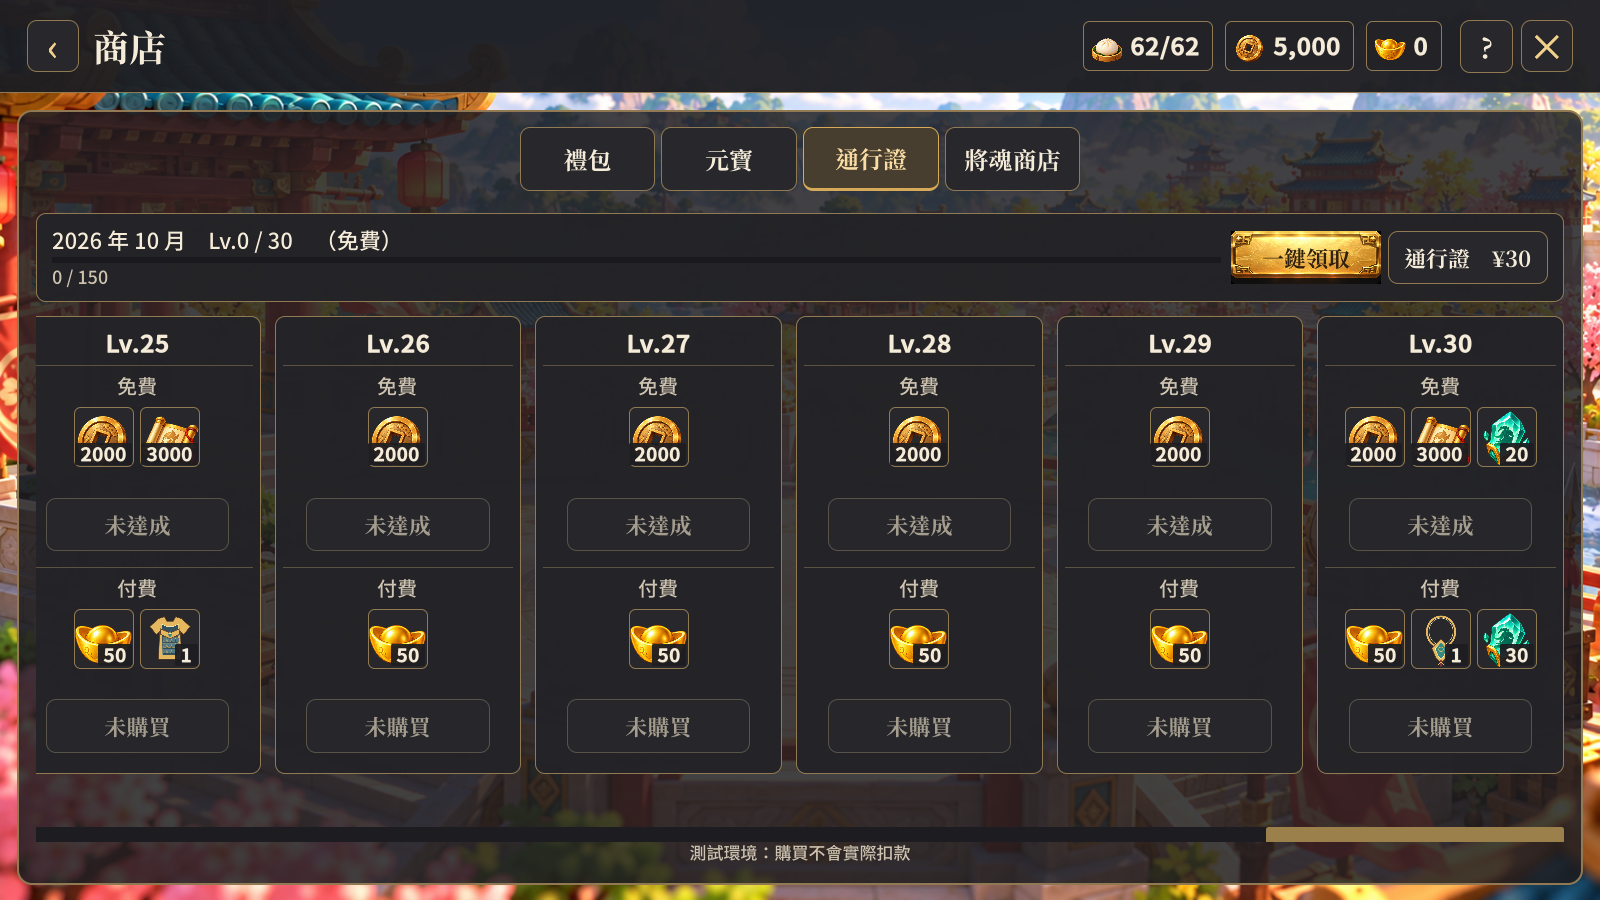
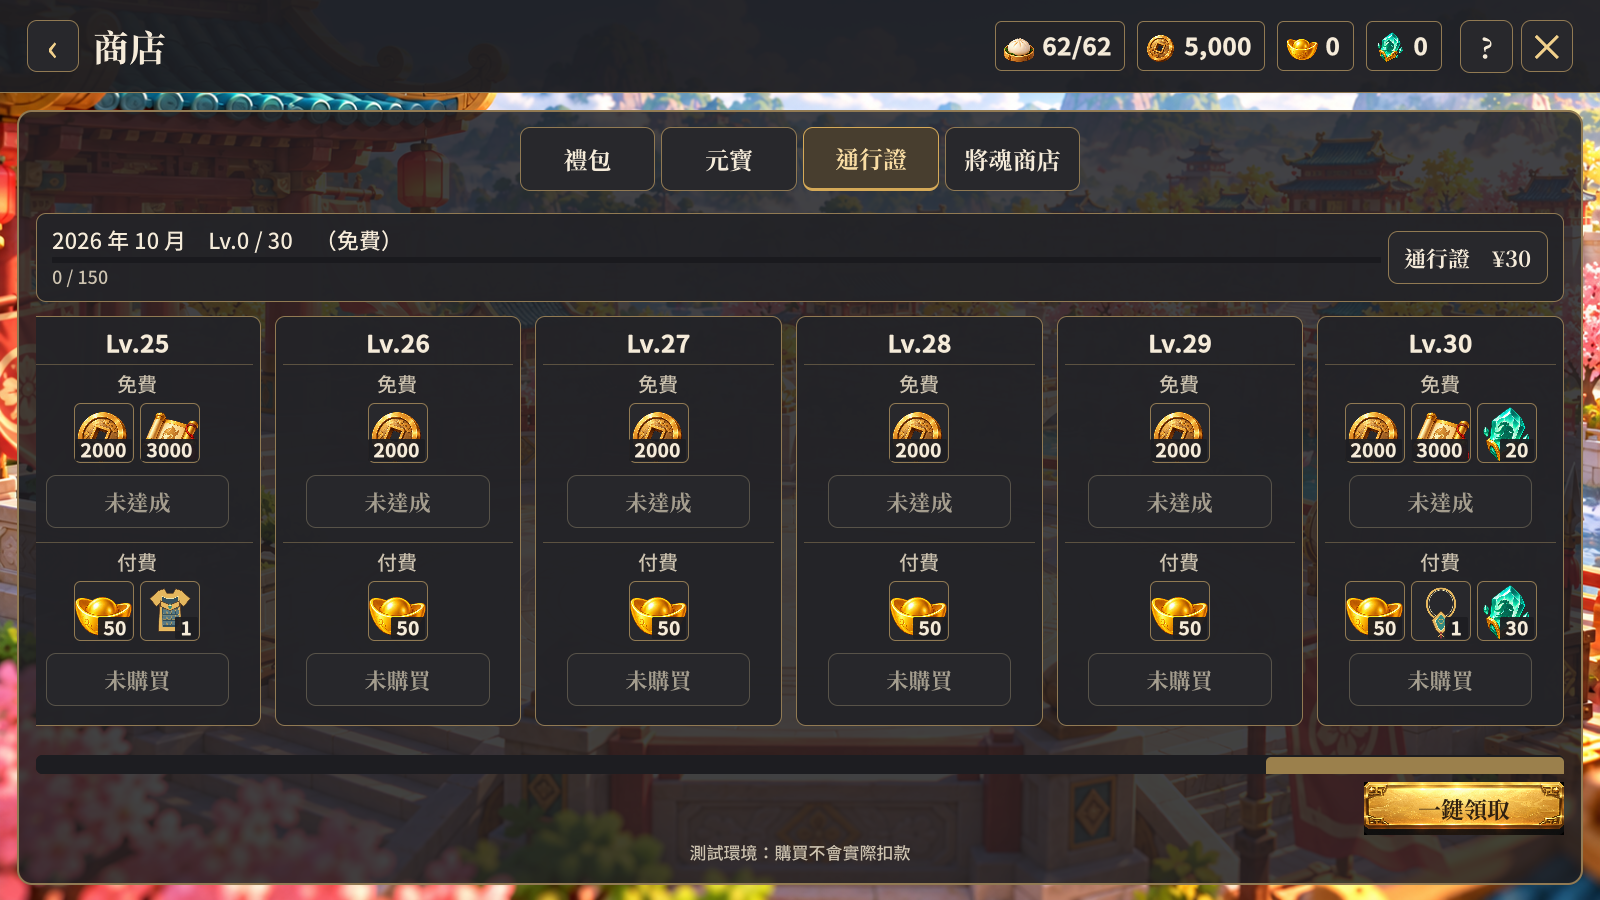
修復商店橫向捲動操作，調整將魂圖示與裝備效果詳情

diff --git a/client/Assets/Scripts/Pages/ShopPage.cs b/client/Assets/Scripts/Pages/ShopPage.cs
@@ -1,5 +1,6 @@
 #nullable enable
 using System.Linq;
+using System.Collections.Generic;
 using SanGuo.Core;
 using SanGuo.Core.Meta;
 using UnityEngine.UIElements;
@@ -191,7 +192,6 @@ namespace SanGuo.Client
             info.Add(UiKit.Text(level >= BattlePass.MaxLevel ? "已滿級" : $"{points % BattlePass.PointsPerLevel} / {BattlePass.PointsPerLevel}", "line-sub"));
             info.tooltip = "消耗 1 點體力獲得 1 點通行證經驗";
             top.Add(info);
-            top.Add(UiKit.Btn("一鍵領取", () => _ = Act(() => GameSession.Backend.ClaimPassAll(), "已領取"), primary: true).WithClass("btn-sm"));
             if (tier == "")
             {
                 foreach (var id in new[] { Shop.PassBasic })
@@ -208,6 +208,8 @@ namespace SanGuo.Client
             var scroll = new ScrollView(ScrollViewMode.Horizontal);
             scroll.AddToClassList("grow");
             scroll.AddToClassList("shop-pass-scroll");
+            scroll.verticalScrollerVisibility = ScrollerVisibility.Hidden;
+            EnableHorizontalScroll(scroll);
             for (int lv = 1; lv <= BattlePass.MaxLevel; lv++)
             {
                 int l = lv;
@@ -228,6 +230,9 @@ namespace SanGuo.Client
                 scroll.Add(row);
             }
             body.Add(scroll);
+            var footer = new VisualElement().WithClass("shop-pass-footer");
+            footer.Add(UiKit.Btn("一鍵領取", () => _ = Act(() => GameSession.Backend.ClaimPassAll(), "已領取"), primary: true).WithClass("shop-pass-claim-all"));
+            body.Add(footer);
             body.Add(UiKit.Text("測試環境：購買不會實際扣款", "foot-note"));
         }
 
@@ -263,11 +268,12 @@ namespace SanGuo.Client
             var v = GameSession.View;
             long now = v.Now;
             int souls = v.Material(HeroGrowth.Soul);
-            body.Add(UiKit.Text($"將魂 {souls}", "line-title shop-soul-note"));
 
             var scroll = new ScrollView(ScrollViewMode.Horizontal);
             scroll.AddToClassList("grow");
             scroll.AddToClassList("shop-exchange-scroll");
+            scroll.verticalScrollerVisibility = ScrollerVisibility.Hidden;
+            EnableHorizontalScroll(scroll);
             VisualElement? column = null;
             int visible = 0;
             foreach (var item in SoulShop.Items())
@@ -285,10 +291,11 @@ namespace SanGuo.Client
                 row.AddToClassList("shop-exchange-card");
                 var head = new VisualElement();
                 head.AddToClassList("shop-exchange-head");
-                head.Add(UiKit.Text(it.Name, "card-row-name"));
+                string name = it.Kind == SoulItemKind.HeroShard ? (HeroRoster.Find(it.HeroId)?.Name ?? it.HeroId) + " 信物" : it.Name;
+                head.Add(UiKit.Text(name, "card-row-name"));
                 if (it.Kind == SoulItemKind.HeroShard)
                 {
-                    var portrait = Item("item_shard", it.Name, "武將專屬信物，用於突破。", 1);
+                    var portrait = Item("item_shard", name, "武將專屬信物，用於突破。", 1);
                     var face = HeroArt.Face(it.HeroId);
                     if (face != null) portrait.style.backgroundImage = new StyleBackground(face);
                     head.Add(portrait.WithClass("shop-exchange-icon"));
@@ -300,7 +307,12 @@ namespace SanGuo.Client
                         it.Kind == SoulItemKind.Gold ? "用於武將養成與裝備強化。" : "用於提升武將等級。", it.Amount).WithClass("shop-exchange-icon"));
                 var purchase = soldOut
                     ? UiKit.DoneBtn("本月已兌完").WithClass("btn-sm")
-                    : UiKit.Btn($"{it.Cost} 將魂", () => _ = Act(() => GameSession.Backend.BuySoulItem(it.Id), "兌換成功"), primary: souls >= it.Cost).WithClass("btn-sm");
+                    : UiKit.Btn("", () => _ = Act(() => GameSession.Backend.BuySoulItem(it.Id), "兌換成功"), primary: souls >= it.Cost).WithClass("btn-sm shop-soul-cost");
+                if (!soldOut)
+                {
+                    purchase.Add(UiKit.ItemTile("item_shard").WithClass("shop-soul-cost-icon"));
+                    purchase.Add(UiKit.Text(it.Cost.ToString(), "shop-soul-cost-value"));
+                }
                 purchase.SetEnabled(!soldOut && souls >= it.Cost);
                 purchase.tooltip = souls >= it.Cost ? "兌換此項目" : $"將魂不足，需要 {it.Cost} 將魂";
                 head.Add(purchase);
@@ -335,7 +347,8 @@ namespace SanGuo.Client
         {
             if (Equipment.TryParseKey(key, out var slot, out int tier))
             {
-                var tile = Item("item_chest", Equipment.Name(slot, tier), $"{Equipment.SlotName(slot)}，可在裝備頁配戴。", amount);
+                var tile = Item("item_chest", Equipment.Name(slot, tier), EquipmentEffect(slot, tier), amount);
+                tile.AddToClassList("shop-equipment-item");
                 string icon = slot == EquipSlot.Weapon ? "weapon_warrior" : slot == EquipSlot.Armor ? "armor" : "accessory";
                 var tex = UnityEngine.Resources.Load<UnityEngine.Texture2D>("EquipmentArt/" + icon);
                 if (tex != null) tile.style.backgroundImage = new StyleBackground(tex);
@@ -343,6 +356,73 @@ namespace SanGuo.Client
             }
             return Item(key == HeroGrowth.HeroExp ? "item_expbook" : "item_shard", UiText.MaterialName(key),
                 key == HeroGrowth.HeroExp ? "用於提升武將等級。" : "用於將魂商店兌換商品。", amount);
+        }
+
+        private static string EquipmentEffect(EquipSlot slot, int tier)
+        {
+            var equipment = new Dictionary<string, int> { [slot.ToString()] = tier };
+            var physical = Equipment.Mods(Role.Warrior, equipment);
+            var other = Equipment.Mods(Role.Tank, equipment);
+            int percent = Equipment.PercentOf(tier);
+            string effect;
+            if (slot == EquipSlot.Weapon)
+                effect = $"坦克／戰士／射手：攻擊 +{percent}%\n法師／謀士／醫者：智力 +{percent}%\n自選匣配戴時依武將職業轉為對應武器。";
+            else if (slot == EquipSlot.Armor)
+                effect = $"生命 +{percent}%\n防禦 +{percent}%";
+            else
+                effect = $"戰士／射手：爆擊率 +{physical.Crit} 個百分點\n坦克／法師／謀士／醫者：閃避率 +{other.Dodge} 個百分點";
+            return $"{Equipment.TierLabel(tier)} · {Equipment.SlotName(slot)}\n{effect}\n可在裝備頁配戴；同部位替換，不與原裝備疊加。";
+        }
+
+        private static void EnableHorizontalScroll(ScrollView scroll)
+        {
+            var viewport = scroll.contentViewport;
+            int pointer = -1;
+            float startX = 0;
+            float startOffset = 0;
+            bool dragging = false;
+            bool suppressClick = false;
+            viewport.RegisterCallback<WheelEvent>(evt =>
+            {
+                if (scroll.horizontalScroller.highValue <= 0) return;
+                float delta = UnityEngine.Mathf.Abs(evt.delta.x) > UnityEngine.Mathf.Abs(evt.delta.y) ? evt.delta.x : evt.delta.y;
+                scroll.scrollOffset = new UnityEngine.Vector2(UnityEngine.Mathf.Clamp(scroll.scrollOffset.x + delta * 48, 0, scroll.horizontalScroller.highValue), 0);
+                evt.StopImmediatePropagation();
+            }, TrickleDown.TrickleDown);
+            viewport.RegisterCallback<PointerDownEvent>(evt =>
+            {
+                suppressClick = false;
+                if (evt.button != 0 || evt.pointerType != PointerType.mouse || pointer >= 0 || scroll.horizontalScroller.highValue <= 0) return;
+                for (var target = evt.target as VisualElement; target != null && target != viewport; target = target.parent)
+                    if (target is Button) return;
+                pointer = evt.pointerId;
+                startX = evt.position.x;
+                startOffset = scroll.scrollOffset.x;
+                dragging = false;
+            }, TrickleDown.TrickleDown);
+            viewport.RegisterCallback<PointerMoveEvent>(evt =>
+            {
+                if (evt.pointerId != pointer) return;
+                if (!dragging && UnityEngine.Mathf.Abs(startX - evt.position.x) < 6) return;
+                if (!dragging) { dragging = true; suppressClick = true; viewport.CapturePointer(pointer); }
+                scroll.scrollOffset = new UnityEngine.Vector2(UnityEngine.Mathf.Clamp(startOffset + startX - evt.position.x, 0, scroll.horizontalScroller.highValue), 0);
+                evt.StopPropagation();
+            }, TrickleDown.TrickleDown);
+            viewport.RegisterCallback<PointerUpEvent>(evt =>
+            {
+                if (evt.pointerId != pointer || evt.button != 0) return;
+                pointer = -1;
+                if (!dragging) return;
+                dragging = false;
+                viewport.ReleasePointer(evt.pointerId);
+                evt.StopPropagation();
+            }, TrickleDown.TrickleDown);
+            viewport.RegisterCallback<ClickEvent>(evt =>
+            {
+                if (!suppressClick) return;
+                evt.StopImmediatePropagation();
+            }, TrickleDown.TrickleDown);
+            viewport.RegisterCallback<PointerCaptureOutEvent>(evt => { if (evt.pointerId == pointer) { pointer = -1; dragging = false; } });
         }
 
         private VisualElement Rewards(Reward reward)

diff --git a/client/Assets/Scripts/App/UnifiedUiCapture.cs b/client/Assets/Scripts/App/UnifiedUiCapture.cs
@@ -59,6 +59,7 @@ namespace SanGuo.Client
                     using (var click = ClickEvent.GetPooled()) { click.target = equipmentTile; equipmentTile.SendEvent(click); }
                     yield return new WaitForSecondsRealtime(.3f);
                     if (root.Q(className: "ui-help-overlay") == null) throw new InvalidOperationException("Shop item click did not open details");
+                    if (!root.Q<Label>(className: "ui-help-text").text.Contains("攻擊 +11%")) throw new InvalidOperationException("Shop weapon effect missing");
                     yield return CommercialUiCapture.Capture(directory, "shop-equipment-detail");
                     root.Q(className: "ui-help-overlay").RemoveFromHierarchy();
                     for (int tab = 1; tab <= 3; tab++)
@@ -67,9 +68,21 @@ namespace SanGuo.Client
                         yield return new WaitForSecondsRealtime(.5f);
                         Validate(root, page);
                         yield return CommercialUiCapture.Capture(directory, "shop-tab-" + tab);
+                        if (tab == 1)
+                        {
+                            var accessory = root.Query(className: "shop-equipment-item").ToList().Find(tile => tile.tooltip.Contains("飾品"));
+                            if (accessory == null) throw new InvalidOperationException("Shop accessory missing");
+                            using (var click = ClickEvent.GetPooled()) { click.target = accessory; accessory.SendEvent(click); }
+                            yield return new WaitForSecondsRealtime(.3f);
+                            var text = root.Q<Label>(className: "ui-help-text").text;
+                            if (!text.Contains("爆擊率 +7 個百分點") || !text.Contains("閃避率 +4 個百分點")) throw new InvalidOperationException("Shop accessory effects missing");
+                            yield return CommercialUiCapture.Capture(directory, "shop-accessory-detail");
+                            root.Q(className: "ui-help-overlay").RemoveFromHierarchy();
+                        }
                         if (tab == 2)
                         {
                             var scroll = root.Q<ScrollView>(className: "shop-pass-scroll");
+                            yield return ValidateShopScroll(root, scroll);
                             scroll.horizontalScroller.value = scroll.horizontalScroller.highValue;
                             yield return new WaitForSecondsRealtime(.5f);
                             Validate(root, page);
@@ -117,6 +130,78 @@ namespace SanGuo.Client
             File.WriteAllText(Path.Combine(directory, "verification.txt"),
                 "Thirteen pages, roster/growth tabs, four shop tabs, recruitment rates/results, stage detail, seven-day quests and help captured. Header resource margins, panel colors and layout bounds passed. Battle commercial-art structure passed. Visual quality requires screenshot review; account is offline mode.");
             Application.Quit();
+        }
+
+        private static IEnumerator ValidateShopScroll(VisualElement root, ScrollView scroll)
+        {
+            var viewport = scroll.contentViewport;
+            var tile = scroll.Q(className: "item-tile");
+            if (scroll.Q(className: "shop-pass-card").worldBound.yMax > viewport.worldBound.yMax + 1)
+                throw new InvalidOperationException("Pass reward card is clipped vertically");
+            using (var wheel = WheelEvent.GetPooled(new Event { type = EventType.ScrollWheel, delta = new Vector2(0, 3), mousePosition = tile.worldBound.center }))
+            {
+                wheel.target = tile;
+                tile.SendEvent(wheel);
+            }
+            yield return new WaitForSecondsRealtime(.2f);
+            if (scroll.scrollOffset.x < 100) throw new InvalidOperationException("Shop vertical wheel did not scroll horizontally");
+            scroll.scrollOffset = Vector2.zero;
+            yield return new WaitForSecondsRealtime(.2f);
+            var card = scroll.Q(className: "shop-pass-card");
+            var from = card.worldBound.center;
+            Drag(card, viewport, from, from - new Vector2(120, 0));
+            if (scroll.scrollOffset.x < 119) throw new InvalidOperationException("Shop card drag did not scroll");
+            float released = scroll.scrollOffset.x;
+            using (var move = PointerMoveEvent.GetPooled(new Event { type = EventType.MouseMove, mousePosition = from }))
+            {
+                move.target = viewport;
+                viewport.SendEvent(move);
+            }
+            if (Mathf.Abs(scroll.scrollOffset.x - released) > 1) throw new InvalidOperationException("Shop drag continued after release");
+            scroll.scrollOffset = Vector2.zero;
+            yield return new WaitForSecondsRealtime(.2f);
+            from = tile.worldBound.center;
+            Drag(tile, viewport, from, from - new Vector2(100, 0));
+            if (scroll.scrollOffset.x < 99) throw new InvalidOperationException("Shop item drag did not scroll");
+            using (var click = ClickEvent.GetPooled()) { click.target = tile; tile.SendEvent(click); }
+            if (root.Q(className: "ui-help-overlay") != null) throw new InvalidOperationException("Dragging shop item opened details");
+            scroll.scrollOffset = Vector2.zero;
+            yield return new WaitForSecondsRealtime(.2f);
+            var thumb = scroll.horizontalScroller.Q(className: "unity-base-slider__dragger");
+            var track = scroll.horizontalScroller.Q(className: "unity-base-slider__drag-container");
+            if (thumb.worldBound.height < 12 || track.worldBound.width < viewport.worldBound.width - 4)
+                throw new InvalidOperationException("Shop scrollbar geometry");
+            from = thumb.worldBound.center;
+            Drag(thumb, thumb, from, from + new Vector2(180, 0));
+            yield return new WaitForSecondsRealtime(.2f);
+            if (scroll.scrollOffset.x < 100) throw new InvalidOperationException("Shop scrollbar thumb drag did not scroll");
+            scroll.scrollOffset = Vector2.zero;
+            yield return new WaitForSecondsRealtime(.2f);
+            from = tile.worldBound.center;
+            Drag(tile, tile, from, from);
+            using (var click = ClickEvent.GetPooled()) { click.target = tile; tile.SendEvent(click); }
+            if (root.Q(className: "ui-help-overlay") == null) throw new InvalidOperationException("Normal item click after dragging did not open details");
+            root.Q(className: "ui-help-overlay").RemoveFromHierarchy();
+            Debug.Log("[shop] horizontal wheel, card drag, item drag, release, click suppression and thumb drag passed");
+        }
+
+        private static void Drag(VisualElement target, VisualElement receiver, Vector2 from, Vector2 to)
+        {
+            using (var down = PointerDownEvent.GetPooled(new Event { type = EventType.MouseDown, button = 0, mousePosition = from }))
+            {
+                down.target = target;
+                target.SendEvent(down);
+            }
+            using (var move = PointerMoveEvent.GetPooled(new Event { type = EventType.MouseDrag, button = 0, mousePosition = to }))
+            {
+                move.target = receiver;
+                receiver.SendEvent(move);
+            }
+            using (var up = PointerUpEvent.GetPooled(new Event { type = EventType.MouseUp, button = 0, mousePosition = to }))
+            {
+                up.target = receiver;
+                receiver.SendEvent(up);
+            }
         }
 
         private static IEnumerator ValidateQuestDrag(VisualElement root)
@@ -201,6 +286,15 @@ namespace SanGuo.Client
                 var tabs = host.Q(className: "shop-tabs");
                 if (frame == null || tabs == null || frame.worldBound.yMax > root.worldBound.yMax - 8)
                     throw new InvalidOperationException("Shop frame or bottom margin missing");
+                if (host.Q(className: "shop-soul-resource")?.Q(className: "res-pill-icon").resolvedStyle.backgroundImage.texture == null || host.Q(className: "shop-soul-note") != null)
+                    throw new InvalidOperationException("Shop soul resource icon or header placement missing");
+                foreach (var name in host.Query<Label>(className: "card-row-name").ToList())
+                    if (name.text.Contains("重複份")) throw new InvalidOperationException("Shop token naming");
+                foreach (var cost in host.Query<Button>(className: "shop-soul-cost").ToList())
+                    if (cost.Q(className: "shop-soul-cost-icon") == null) throw new InvalidOperationException("Shop soul cost icon missing");
+                var claim = host.Q<Button>(className: "shop-pass-claim-all");
+                if (claim != null && (claim.worldBound.xMax < frame.worldBound.xMax - 40 || claim.worldBound.yMax < frame.worldBound.yMax - 90))
+                    throw new InvalidOperationException("Pass claim all is not at bottom right");
                 foreach (var scroll in host.Query<ScrollView>().ToList())
                     if (tabs.worldBound.yMax > scroll.worldBound.yMin + 1)
                         throw new InvalidOperationException("Shop tabs overlap scrolling products");

diff --git a/client/Assets/Scripts/App/UiKit.cs b/client/Assets/Scripts/App/UiKit.cs
@@ -282,6 +282,7 @@ namespace SanGuo.Client
             res.Add(ResPill("item_stamina", $"{v.Stamina}/{v.StaminaCap}"));
             res.Add(ResPill("item_gold", v.Gold.ToString("N0")));
             res.Add(ResPill("item_yuanbao", v.Yuanbao.ToString("N0")));
+            if (page == Page.Shop) res.Add(ResPill("item_shard", v.Material(HeroGrowth.Soul).ToString("N0")).WithClass("shop-soul-resource"));
             bar.Add(res);
 
             if (page != Page.Login) bar.Add(UiHelp.Button(host, page));

diff --git a/docs/ui-shop-review.md b/docs/ui-shop-review.md
@@ -6,11 +6,14 @@
 
 - 四個分頁共用外框，分頁固定在商品捲動區上方；「儲值」改為「禮包」。
 - 小月卡呈現元寶 300 ＋ 100 × 30、體力 60 × 30；大月卡呈現元寶 680 ＋ 200 × 30、體力 120 × 30。
-- 商店獎勵圖示可點擊或以 Enter／空白鍵開啟名稱、數量與用途說明。
+- 商店獎勵圖示可點擊或以 Enter／空白鍵開啟名稱、數量與用途說明；裝備另外顯示實際加成及職業差異。
 - 禮包、通行證及將魂商品的裝備使用武器、防具、飾品對應圖片，替換原先通用寶箱圖。
 - 元寶六種商品維持三欄兩排，增加排間距與底部留白。
-- 通行證改為橫向等級卡，每級上下排列免費與付費獎勵；進度區縮短說明文字。
-- 將魂商品改為可橫向捲動的雙排小卡，加入武將肖像與物品圖片，移除頂部長篇描述。
+- 通行證改為橫向等級卡，每級上下排列免費與付費獎勵；進度區縮短說明文字，一鍵領取固定於右下角。
+- 通行證與將魂卡片支援滑鼠拖曳、垂直／水平滾輪橫向捲動，以及捲軸把手拖曳。超過六個 UI 單位的位移視為拖曳，抑制隨後的點擊；下一次按下滑鼠恢復正常點擊。按鈕保留原操作，不作為拖曳起點。
+- 將魂商品改為可橫向捲動的雙排小卡，加入武將肖像與物品圖片。將魂數量移入商店上方資源條，兌換費用改為將魂圖示與數量，移除原將魂橫長條。
+- 將魂商店武將商品改名為「信物」，道具詳情同步顯示此名稱。
+- 裝備詳情讀取現有 Equipment 加成：武器依職業提供攻擊或智力百分比；防具提供生命與防禦百分比；飾品依職業提供爆擊率或閃避率百分點，另顯示品質與替換規則。
 - 移除豪華通行證商品、額外十級、980 元寶贈送與模擬工具購買呼叫；只保留 ¥30 普通通行證。
 - 舊豪華存檔保留已獲得的元寶、等級及領取紀錄，當季權益正規化為普通付費通行證。舊未付款豪華訂單無法再兌付。
 
@@ -22,13 +25,15 @@
 
 - 核心 294 項測試全部通過，含豪華商品拒絕、普通版無額外獎勵、舊權益保留。
 - PlaySim 建置通過，零警告、零錯誤。
-- Unity Windows 建置通過；1600 × 900 驗證輸出 28 張截圖。
+- Unity Windows 建置通過；1600 × 900 驗證輸出 29 張截圖。
 - 自動驗證商店外框底部留白、分頁與商品區無重疊、元寶兩排間距、通行證橫向捲動、裝備圖示點擊開啟說明。
+- 第二次回報後增加操作驗證，前次只指定捲動值的驗收不足以保證滑鼠可操作。這次驗證垂直滾輪作用在道具上、卡片拖曳、道具拖曳、放開後停止移動、拖曳後不誤開詳情、捲軸把手拖曳、後續正常點擊可開詳情、卡片未被垂直裁切、一鍵領取位於右下角、將魂資源條有圖、兌換費用有圖與信物命名。
+- 驗證良品武器詳情含攻擊／智力 +11%，青玉環詳情含爆擊率 +7 個百分點／閃避率 +4 個百分點。
 - 執行期與樣式錯誤為零；保留原有 HomeLayout 的 last-child 偽類警告。核心測試仍有原有 CampaignBalanceTests 的 xUnit1013 警告。
 
 ## 美術檢視
 
-人工檢視以下六張實際遊戲截圖：月卡算式及道具數量清楚、元寶第二排完整顯示且未觸底、道具說明未裁切、通行證首尾等級與三個獎勵圖示完整、將魂雙排卡片無重疊。圖片風格沿用現有資源，未將功能通過等同全套素材達到商用品質。
+人工檢視以下七張實際遊戲截圖：月卡算式及道具數量清楚、元寶第二排完整顯示且未觸底、裝備效果說明未裁切、通行證首尾等級及三個獎勵圖示完整且一鍵領取位於右下角、將魂上方資源圖示與雙排商品卡片無重疊。圖片風格沿用現有資源，未將功能通過等同全套素材達到商用品質。
 
 | 頁面 | 截圖 |
 | --- | --- |
@@ -38,5 +43,6 @@
 | 通行證尾端 | [pass-end.png](ui-shop-review/pass-end.png) |
 | 將魂 | [soul.png](ui-shop-review/soul.png) |
 | 裝備說明 | [equipment-detail.png](ui-shop-review/equipment-detail.png) |
+| 青玉環效果 | [accessory-detail.png](ui-shop-review/accessory-detail.png) |
 
 驗證命令：`dotnet test tests/SanGuo.Core.Tests --no-restore -m:1 --verbosity quiet`、`dotnet build tools/playsim/PlaySim.csproj --no-restore -m:1 --verbosity quiet`、`tools/verify-unified-ui.ps1`。
